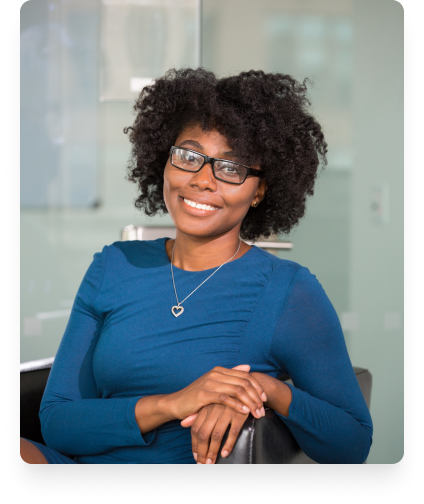
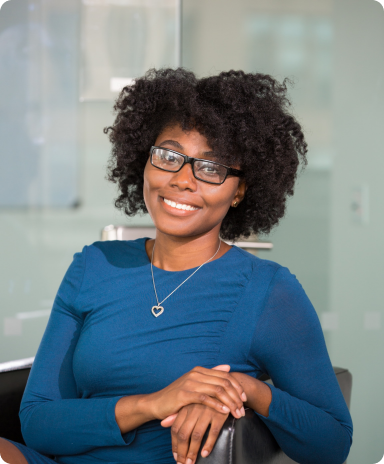
Update Testimonial

diff --git a/src/App.css b/src/App.css
@@ -69,6 +69,14 @@
   margin-top: -3.5rem;
 }
 
+.testimonial-company-title {
+  margin: 0;
+}
+
+.testimonial-without-image .testimonial-name {
+  margin: 0 0.5rem 0 0;
+}
+
 /* Layout */
 
 .app-container {
@@ -208,14 +216,29 @@
 
 .testimonial-with-image {
   display: flex;
-  flex-direction: column;
   align-items: center;
-  justify-content: center;
+  /* justify-content: center; */
   color: whitesmoke;
   background-color: #2545B8;
-  padding: 1rem;
+  padding: 2.5rem;
   margin-top: 2rem;
-  border-radius: 0.5rem;
+  border-radius: 0.75rem;
+}
+
+.testimonial-image-container {
+  display: flex;
+  align-items: center;
+  justify-content: center;
+  width: 60%;
+  padding: 0;
+  margin: 0;
+}
+
+.testimonial-text-container {
+  display: flex;
+  flex-direction: column;
+  width: 100%;
+  margin-left: 1rem;
 }
 
 .testimonial-without-image {
@@ -225,9 +248,14 @@
   justify-content: center;
   color: #111827;
   background-color: #FEF3C7;
-  padding: 1rem;
+  padding: 4.5rem 2.5rem;
   margin-top: 2rem;
-  border-radius: 0.5rem;
+  border-radius: 0.75rem;
+}
+
+.testimonial-name-company-title-container {
+  display: flex;
+  align-items: center;
 }
 
 .tooltip-wrapper {
@@ -419,12 +447,15 @@
 
 .testimonial-image {
   width: 100%;
-  border-radius: 0.5rem;
+  padding: 0;
+  margin: 0;
+  border-radius: 0.75rem;
 }
 
 .company-logo-image {
-  width: 40%;
-  border-radius: 0.5rem;
+  width: 20%;
+  margin-bottom: 1rem;
+  border-radius: 0.75rem;
 }
 
 /* Links */
@@ -458,9 +489,9 @@
 
   /* Images */
 
-  .testimonial-image {
+  /* .testimonial-image {
     width: 60%;
-  }
+  } */
 
   /* Links */
 

diff --git a/src/components/Testimonial/TestimonialWithImage.tsx b/src/components/Testimonial/TestimonialWithImage.tsx
@@ -15,13 +15,17 @@ function TestimonialWithImage({
 }) {
     return (
         <div className="testimonial-with-image">
-            <img
-                className="testimonial-image"
-                src={image}
-                alt={`An image of ${name}`} />
-            <p>{text}</p>
-            <p>{name}</p>
-            <p>{`${company}, ${title}`}</p>
+            <div className="testimonial-image-container">
+                <img
+                    className="testimonial-image"
+                    src={image}
+                    alt={`An image of ${name}`} />
+            </div>
+            <div className="testimonial-text-container">
+                <p className="testimonial-text">{text}</p>
+                <p className="testimonial-name">{name}</p>
+                <p className="testimonial-company-title">{`${company}, ${title}`}</p>
+            </div>
             {/* {children} */}
         </div>
     )

diff --git a/src/components/Testimonial/TestimonialWithoutImage.tsx b/src/components/Testimonial/TestimonialWithoutImage.tsx
@@ -19,9 +19,11 @@ function TestimonialWithoutImage({
                 className="company-logo-image"
                 src={companyLogo}
                 alt={`The logo of ${company}`} />
-            <p>{text}</p>
-            <p>{name}</p>
-            <p>{`${company}, ${title}`}</p>
+            <p className=" testimonial-text">{text}</p>
+            <div className="testimonial-name-company-title-container">
+                <p className="testimonial-name">{name}</p>
+                <p className="testimonial-company-title">{`${company}, ${title}`}</p>
+            </div>
             {/* {children} */}
         </div>
     )
